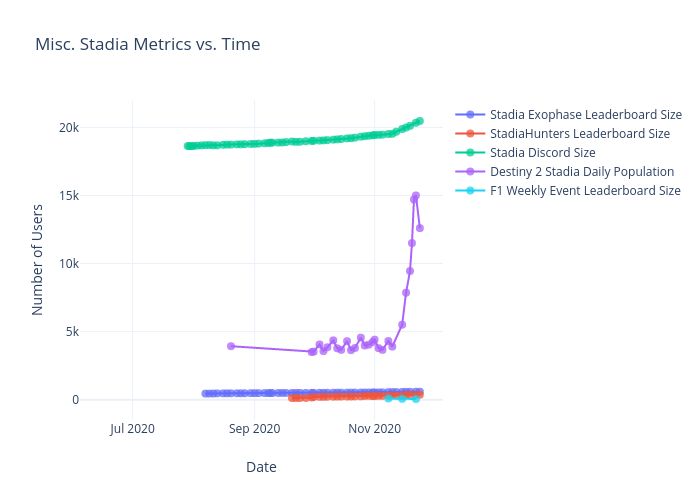
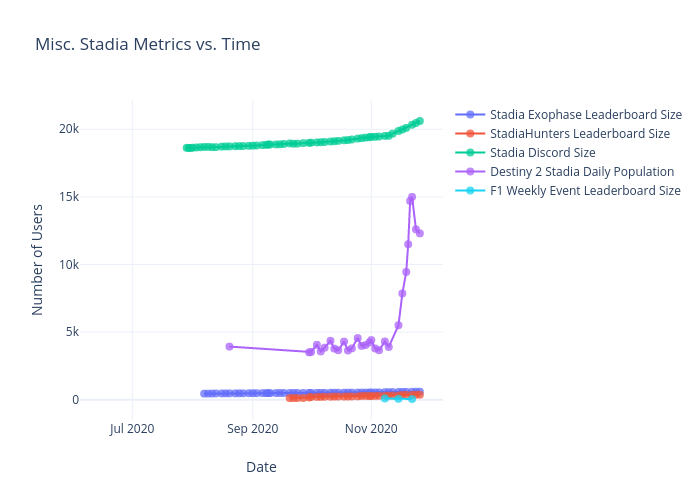
Add files via upload
Nov 26

diff --git a/misc/figure.js b/misc/figure.js
@@ -138,7 +138,8 @@ var figure = {
                 "",
                 "",
                 "587",
-                "592"
+                "592",
+                "596"
             ],
             "marker": {
                 "size": 8,
@@ -285,7 +286,8 @@ var figure = {
                 "",
                 "",
                 "363",
-                "369"
+                "369",
+                "370"
             ],
             "marker": {
                 "size": 8,
@@ -432,7 +434,8 @@ var figure = {
                 "",
                 "",
                 "20333",
-                "20465"
+                "20465",
+                "20613"
             ],
             "marker": {
                 "size": 8,
@@ -579,7 +582,8 @@ var figure = {
                 "11500",
                 "14700",
                 "15000",
-                "12600"
+                "12600",
+                "12300"
             ],
             "marker": {
                 "size": 8,
@@ -742,8 +746,8 @@ var figure = {
         "xaxis": {
             "type": "date",
             "range": [
-                "2020-06-05 14:30:26.8657",
-                "2020-12-04 09:29:33.1343"
+                "2020-06-05 11:24:29.4354",
+                "2020-12-06 12:35:30.5646"
             ],
             "title": {
                 "text": "Date"
@@ -753,8 +757,8 @@ var figure = {
         "yaxis": {
             "type": "linear",
             "range": [
-                -1344.699159467663,
-                21863.699159467662
+                -1354.841116040159,
+                22021.84111604016
             ],
             "title": {
                 "text": "Number of Users"
